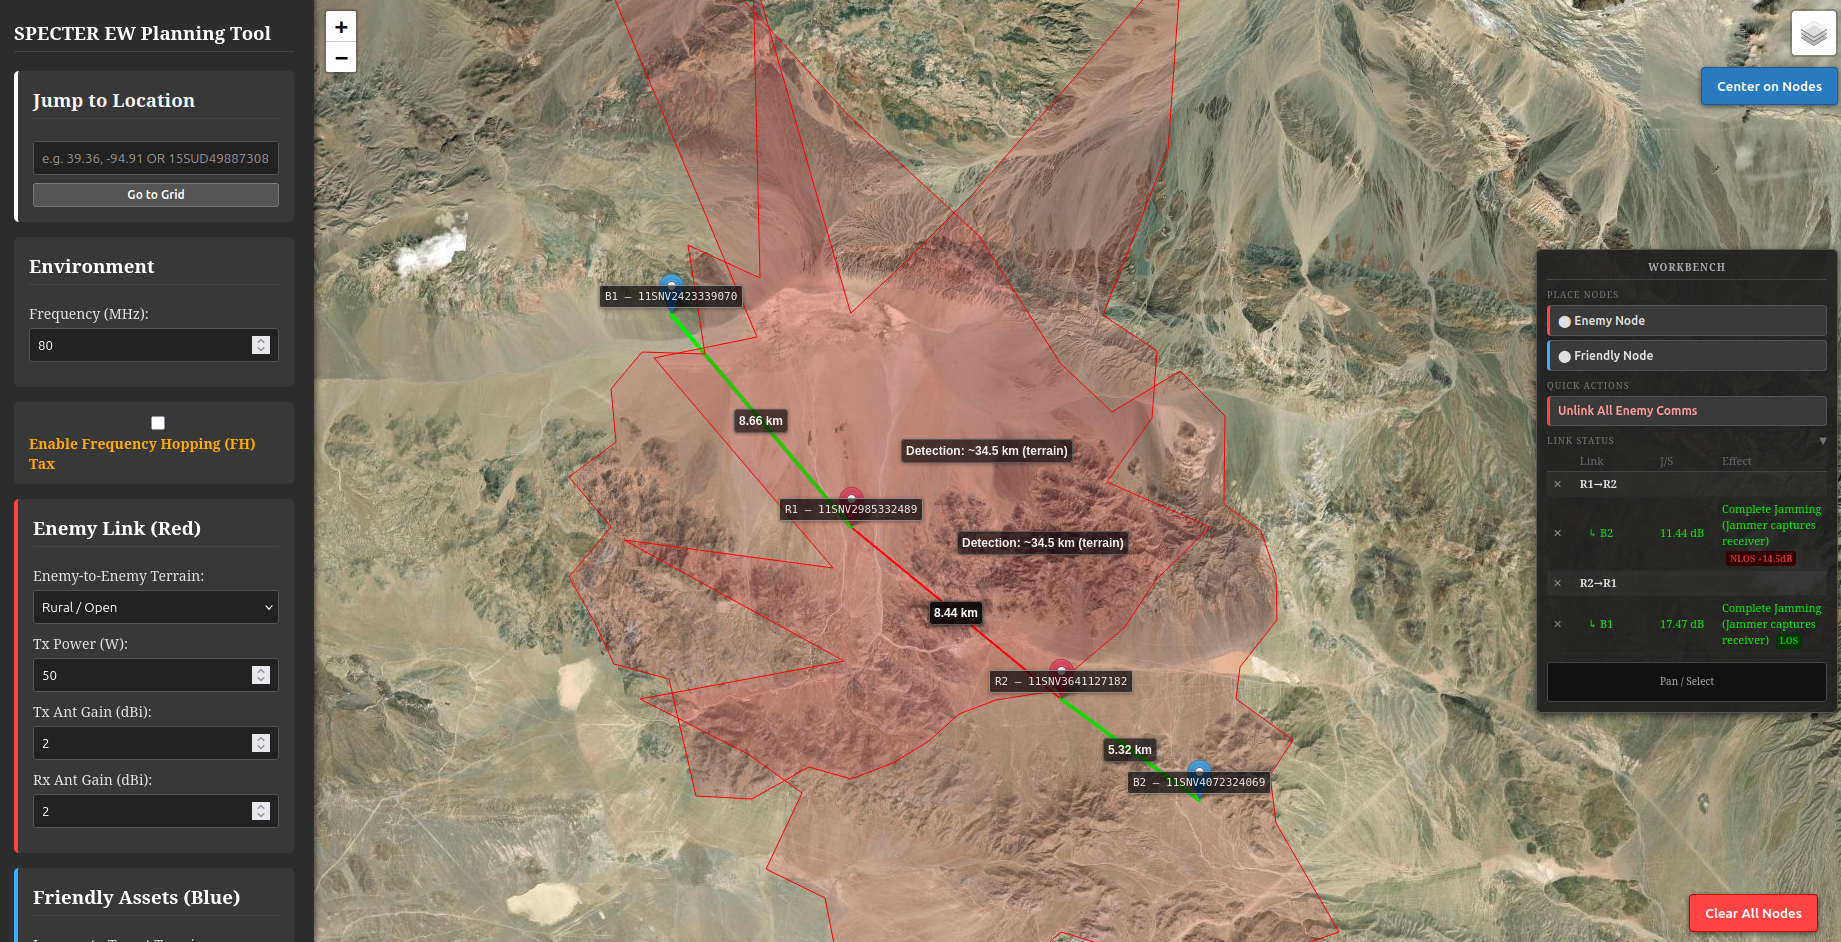
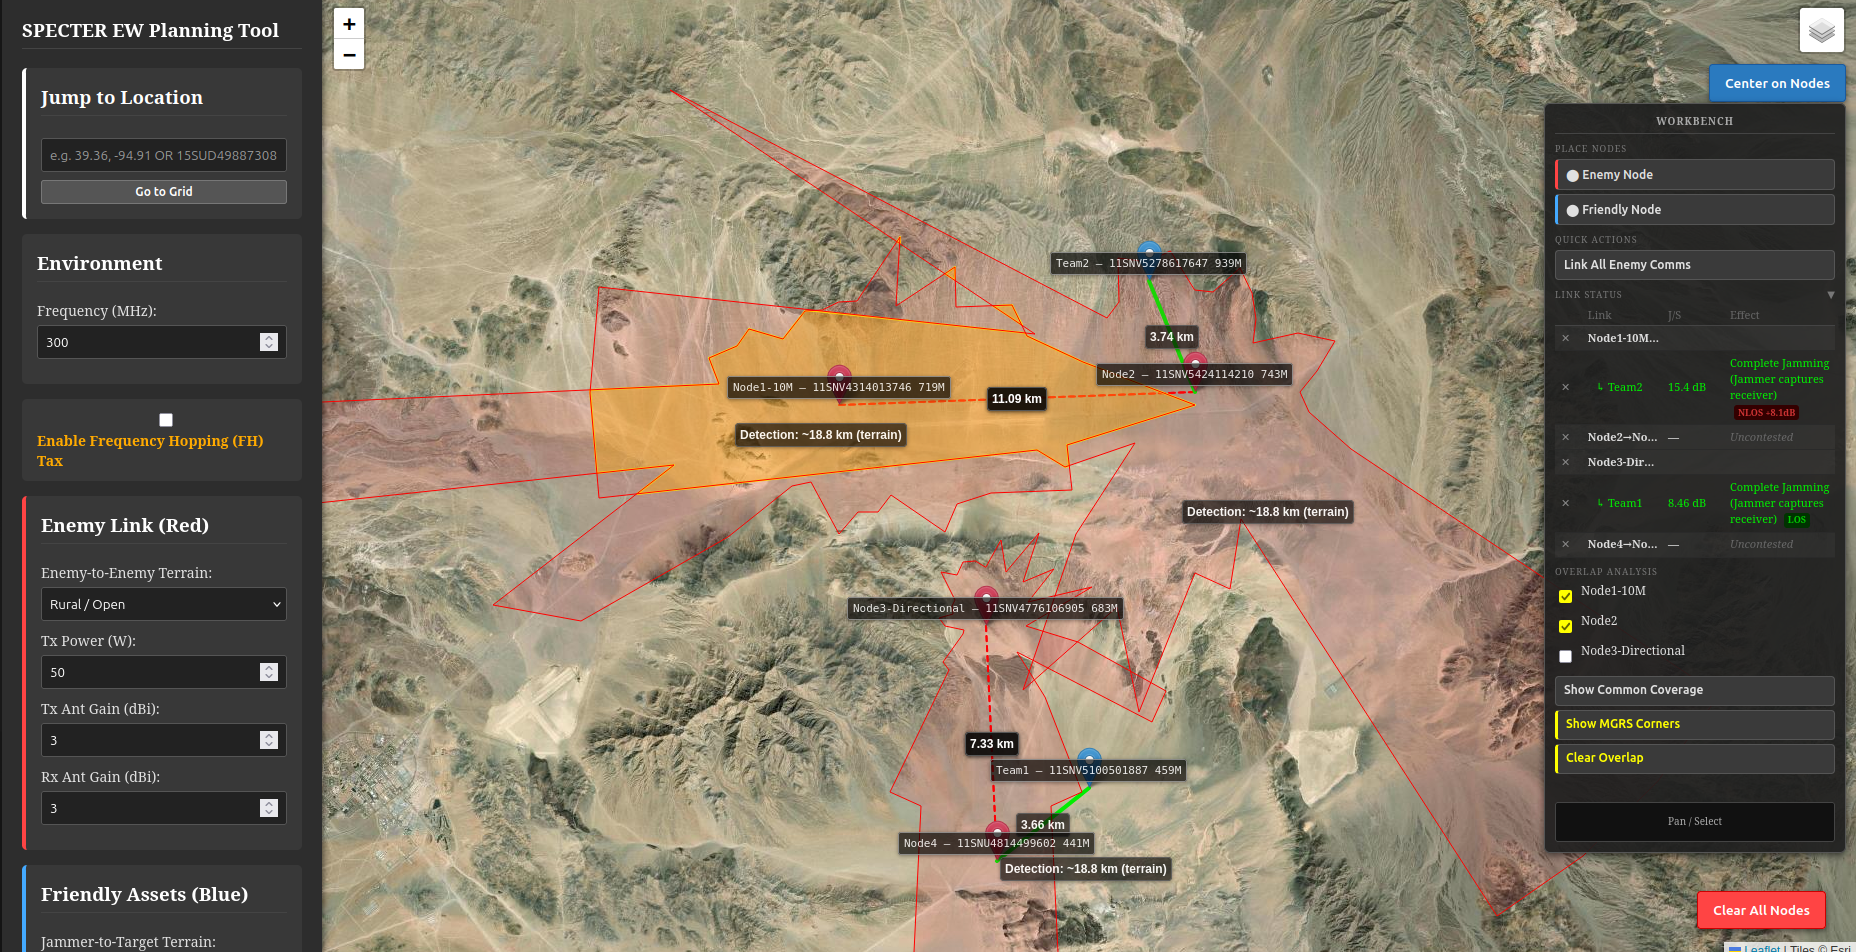
Added variable antenna height for LOS analysis

diff --git a/static/js/map_logic.js b/static/js/map_logic.js
@@ -124,7 +124,7 @@ function placeRedNode(latlng) {
     const marker = L.marker(latlng, { icon: redIcon, draggable: true }).addTo(map);
     marker.on('click', function() { handleNodeClick('red', id); });
     const node = { id, name: id, marker, esActive: false, esCircle: null, elevationM: null,
-                   antennaType: 'omni', antennaAzimuth: 0, antennaBeamwidth: 90 };
+                   antennaType: 'omni', antennaAzimuth: 0, antennaBeamwidth: 90, antennaHeightAgl: 0 };
     marker.on('dragend', function() { fetchAndStoreElevation(node); recalculateAll(); });
     marker.on('popupclose', function() { bindRedPopup(id); });
     redNodes.push(node);
@@ -140,7 +140,7 @@ function placeBlueNode(latlng) {
     const marker = L.marker(latlng, { icon: blueIcon, draggable: true }).addTo(map);
     marker.on('click', function() { handleNodeClick('blue', id); });
     const node = { id, name: id, marker, elevationM: null,
-                   antennaType: 'omni', antennaAzimuth: 0, antennaBeamwidth: 90 };
+                   antennaType: 'omni', antennaAzimuth: 0, antennaBeamwidth: 90, antennaHeightAgl: 0 };
     marker.on('dragend', function() { fetchAndStoreElevation(node); recalculateAll(); });
     marker.on('popupclose', function() { bindBluePopup(id); });
     blueNodes.push(node);
@@ -176,7 +176,13 @@ function antennaPopupSection(team, id, node) {
               oninput="setNodeAntennaBeamwidth('${team}','${id}',this.value)"
               onchange="recalculateAll()">
           </label>
-        </div>`;
+        </div>
+        <label class="popup-label">Height AGL (m):
+          <input type="number" min="0" max="500" value="${node.antennaHeightAgl}"
+            oninput="setNodeAntennaHeight('${team}','${id}',this.value)"
+            onchange="recalculateAll()">
+        </label>
+        <div class="popup-note">Affects LOS/diffraction only<br>path loss uses ground-level model</div>`;
 }
 
 function bindRedPopup(id) {
@@ -255,6 +261,13 @@ window.setNodeAntennaBeamwidth = function(team, id, value) {
     const node = findNode(team, id);
     if (!node) return;
     node.antennaBeamwidth = Math.max(1, Math.min(360, parseFloat(value) || 90));
+    // recalculateAll is triggered by onchange on the input (fires on blur/enter)
+};
+
+window.setNodeAntennaHeight = function(team, id, value) {
+    const node = findNode(team, id);
+    if (!node) return;
+    node.antennaHeightAgl = Math.max(0, parseFloat(value) || 0);
     // recalculateAll is triggered by onchange on the input (fires on blur/enter)
 };
 
@@ -553,6 +566,9 @@ function recalculateAll() {
             payload.jammer_antenna_type  = blue.antennaType;
             payload.jammer_azimuth_deg   = blue.antennaAzimuth;
             payload.jammer_beamwidth_deg = blue.antennaBeamwidth;
+            payload.tx_antenna_height_m     = tx.antennaHeightAgl;
+            payload.rx_antenna_height_m     = rx.antennaHeightAgl;
+            payload.jammer_antenna_height_m = blue.antennaHeightAgl;
         }
 
         fetch('/calculate_ea', {
@@ -780,11 +796,12 @@ function updateESCircles() {
         const ll = node.marker.getLatLng();
         const payload = {
             ...esParams,
-            enemy_lat:       ll.lat,
-            enemy_lon:       ll.lng,
-            tx_antenna_type:  node.antennaType,
-            tx_azimuth_deg:   node.antennaAzimuth,
-            tx_beamwidth_deg: node.antennaBeamwidth,
+            enemy_lat:          ll.lat,
+            enemy_lon:          ll.lng,
+            tx_antenna_type:    node.antennaType,
+            tx_azimuth_deg:     node.antennaAzimuth,
+            tx_beamwidth_deg:   node.antennaBeamwidth,
+            tx_antenna_height_m: node.antennaHeightAgl,
         };
 
         fetch('/calculate_es_terrain', {

diff --git a/static/css/style.css b/static/css/style.css
@@ -587,3 +587,11 @@ td.uncontested { color: #666; font-style: italic; font-weight: normal; }
     border: 1px solid #aaa;
     border-radius: 3px;
 }
+
+.popup-note {
+    font-size: 10px;
+    color: #888;
+    font-style: italic;
+    margin-top: 2px;
+    margin-bottom: 4px;
+}

diff --git a/app.py b/app.py
@@ -98,6 +98,9 @@ def calculate_ea():
         jammer_antenna_type  = data.get('jammer_antenna_type', 'omni')
         jammer_azimuth_deg   = float(data.get('jammer_azimuth_deg', 0))
         jammer_beamwidth_deg = float(data.get('jammer_beamwidth_deg', 90))
+        tx_antenna_height_m     = float(data.get('tx_antenna_height_m', 0))
+        rx_antenna_height_m     = float(data.get('rx_antenna_height_m', 0))
+        jammer_antenna_height_m = float(data.get('jammer_antenna_height_m', 0))
 
         jammer_lat = data.get('jammer_lat')
         jammer_lon = data.get('jammer_lon')
@@ -119,7 +122,7 @@ def calculate_ea():
                     float(jammer_lat), float(jammer_lon),
                     float(rx_lat), float(rx_lon)
                 )
-                jammer_los = check_line_of_sight(profile, freq_mhz)
+                jammer_los = check_line_of_sight(profile, freq_mhz, jammer_antenna_height_m, rx_antenna_height_m)
             except Exception:
                 pass  # fall back to no elevation data
 
@@ -129,7 +132,7 @@ def calculate_ea():
                     float(tx_lat), float(tx_lon),
                     float(rx_lat), float(rx_lon)
                 )
-                enemy_los = check_line_of_sight(profile, freq_mhz)
+                enemy_los = check_line_of_sight(profile, freq_mhz, tx_antenna_height_m, rx_antenna_height_m)
             except Exception:
                 pass
 
@@ -258,6 +261,7 @@ def calculate_es_terrain():
         tx_antenna_type  = data.get('tx_antenna_type', 'omni')
         tx_azimuth_deg   = float(data.get('tx_azimuth_deg', 0))
         tx_beamwidth_deg = float(data.get('tx_beamwidth_deg', 90))
+        tx_antenna_height_m = float(data.get('tx_antenna_height_m', 0))
 
         if freq_mhz <= 0:
             return jsonify({'status': 'error', 'message': 'Frequency must be greater than zero.'})
@@ -299,7 +303,7 @@ def calculate_es_terrain():
             polygon_points = []
             for bearing, profile in zip(bearings, profiles):
                 eirp = eirp_at_bearing(bearing)
-                los = check_line_of_sight(profile, freq_mhz)
+                los = check_line_of_sight(profile, freq_mhz, tx_antenna_height_m, 0.0)
                 diff_db = los['diffraction_loss_db']
                 range_km = calculate_sensing_distance(
                     eirp, freq_mhz, sensor_terrain, rx_gain, rx_sensitivity, diff_db

diff --git a/core/elevation.py b/core/elevation.py
@@ -185,7 +185,7 @@ def _knife_edge_loss_db(nu):
     return max(0.0, -20.0 * math.log10(val))
 
 
-def check_line_of_sight(profile, freq_mhz):
+def check_line_of_sight(profile, freq_mhz, tx_height_agl_m=0.0, rx_height_agl_m=0.0):
     """
     Determine geometric LOS with Earth curvature correction and estimate
     knife-edge diffraction loss for the worst obstruction.
@@ -194,6 +194,8 @@ def check_line_of_sight(profile, freq_mhz):
         profile: list of {lat, lon, elevation_m, distance_km} from
                  get_elevation_profile()
         freq_mhz: link frequency in MHz
+        tx_height_agl_m: transmitter antenna height above ground level (metres)
+        rx_height_agl_m: receiver antenna height above ground level (metres)
 
     Returns:
         {
@@ -209,8 +211,8 @@ def check_line_of_sight(profile, freq_mhz):
     if len(profile) < 2:
         return clear
 
-    h1 = profile[0]["elevation_m"]
-    h2 = profile[-1]["elevation_m"]
+    h1 = profile[0]["elevation_m"]  + tx_height_agl_m
+    h2 = profile[-1]["elevation_m"] + rx_height_agl_m
     D  = profile[-1]["distance_km"]
 
     if D <= 0:

diff --git a/CLAUDE.md b/CLAUDE.md
@@ -21,15 +21,20 @@ There are no build steps, test suites, or linters configured.
 
 ## Architecture
 
-**Backend** (`app.py` + `core/`): Stateless Flask REST API with two calculation endpoints:
+**Backend** (`app.py` + `core/`): Stateless Flask REST API with five endpoints:
 - `POST /calculate_ea` — Electronic Attack: computes J/S margin (jamming effectiveness)
-- `POST /calculate_es` — Electronic Support: computes sensing/detection range
+- `POST /calculate_es` — Electronic Support: computes omni sensing/detection range
+- `POST /calculate_es_terrain` — ES with terrain-aware detection polygon (per-bearing diffraction)
+- `POST /compute_overlap` — Common area overlap between multiple ES detection rings
+- `POST /get_elevations` — Elevation profile fetch for LOS/diffraction calculations
 
 **Core physics** (`core/`):
 - `link_budget.py` — EIRP, watts-to-dBm, frequency-hopping tax
-- `propagation.py` — Dual-slope path loss model (20 log for <1km, 40 log for >1km), clutter/terrain loss, received power, jamming evaluation, and sensing distance
+- `propagation.py` — Dual-slope path loss model (smooth 20→40 log blend across 0.5–2.0 km transition), clutter/terrain loss, received power, jamming evaluation, and sensing distance
+- `elevation.py` — Elevation profile fetching, LOS checking, knife-edge diffraction (ITU-R)
+- `antenna.py` — Directional antenna gain pattern, bearing calculations
 
-**Frontend** (`static/js/map_logic.js`, ~900 lines, vanilla JS):
+**Frontend** (`static/js/map_logic.js`, ~1,200 lines, vanilla JS):
 - Leaflet.js map with OpenStreetMap and Esri Satellite tile layers
 - Interactive placement of red (enemy) and blue (friendly) nodes
 - Link creation between nodes triggers RF calculations via API calls
@@ -44,4 +49,7 @@ There are no build steps, test suites, or linters configured.
 - **No database**: all state is client-side (Leaflet map markers/layers); the backend is purely stateless calculation.
 - **Frequency-hopping tax**: applies a configurable dB penalty when hopping waveforms are selected.
 - **Clutter loss**: terrain type (urban, suburban, open) adds attenuation on top of path loss.
+- **Directional antenna support**: nodes can be configured with azimuth and beamwidth; gain is reduced for off-boresight links using a Gaussian pattern approximation.
+- **Antenna height AGL**: per-node height (metres) adjusts the effective endpoint elevation in the LOS/diffraction calculation only. Path loss is still computed with a ground-level assumption by design.
+- **Common area detection overlay**: computes the geographic overlap between multiple ES detection rings to identify jointly-observable areas.
 - **Security headers** are set in `app.py` but there is no authentication — deploy only on trusted/air-gapped networks.

diff --git a/README.md b/README.md
@@ -10,6 +10,7 @@ A tactical Electronic Warfare planning tool for EA/ES mission analysis. Runs loc
 - **Elevation-aware propagation** — queries the Open-Elevation API to compute line-of-sight status and knife-edge diffraction loss (ITU-R P.526) for each jamming link; EA results include an LOS/NLOS badge and the diffraction penalty applied
 - **Terrain-shaped detection rings** — ES sensing range is rendered as an azimuthal polygon rather than a uniform circle, shrinking in directions blocked by terrain; falls back to a circle if the elevation API is unreachable
 - **Directional antenna support** — each node can be configured as omni or directional via its popup; enter boresight azimuth (True North) and half-power beamwidth. Effective gain is computed per bearing using a Gaussian beam model with a −20 dB sidelobe floor, affecting both J/S margin and the shape of detection rings
+- **Antenna height AGL** — each node has a configurable height above ground level (meters). Height is applied to the LOS/diffraction calculation so a mast-mounted antenna can correctly clear terrain obstacles that a ground-level node would not; path loss is still computed with a ground-level assumption
 - **Clutter terrain types** — manual terrain category (free space, rural, light forest, dense forest) applies a frequency-dependent clutter loss on top of the elevation-derived diffraction
 - **Frequency-hopping tax** — applies a configurable jamming penalty for frequency-hopping waveforms
 - **Per-node naming and MGRS labels** — nodes can be renamed; permanent MGRS grid labels and elevation readouts are displayed above each marker on the map
@@ -46,6 +47,7 @@ Open `http://localhost:5000` in your browser.
 Additional controls available from any node popup:
 - **Rename Node** — set a custom label (shown in MGRS tooltips and the results table)
 - **Antenna** — switch between Omni and Directional; if Directional, enter the boresight azimuth (° True North) and beamwidth (° HPBW)
+- **Height AGL** — set the antenna height above ground level in meters (affects LOS/diffraction only)
 
 Adjust platform parameters in the left sidebar and all links recalculate instantly.
 
